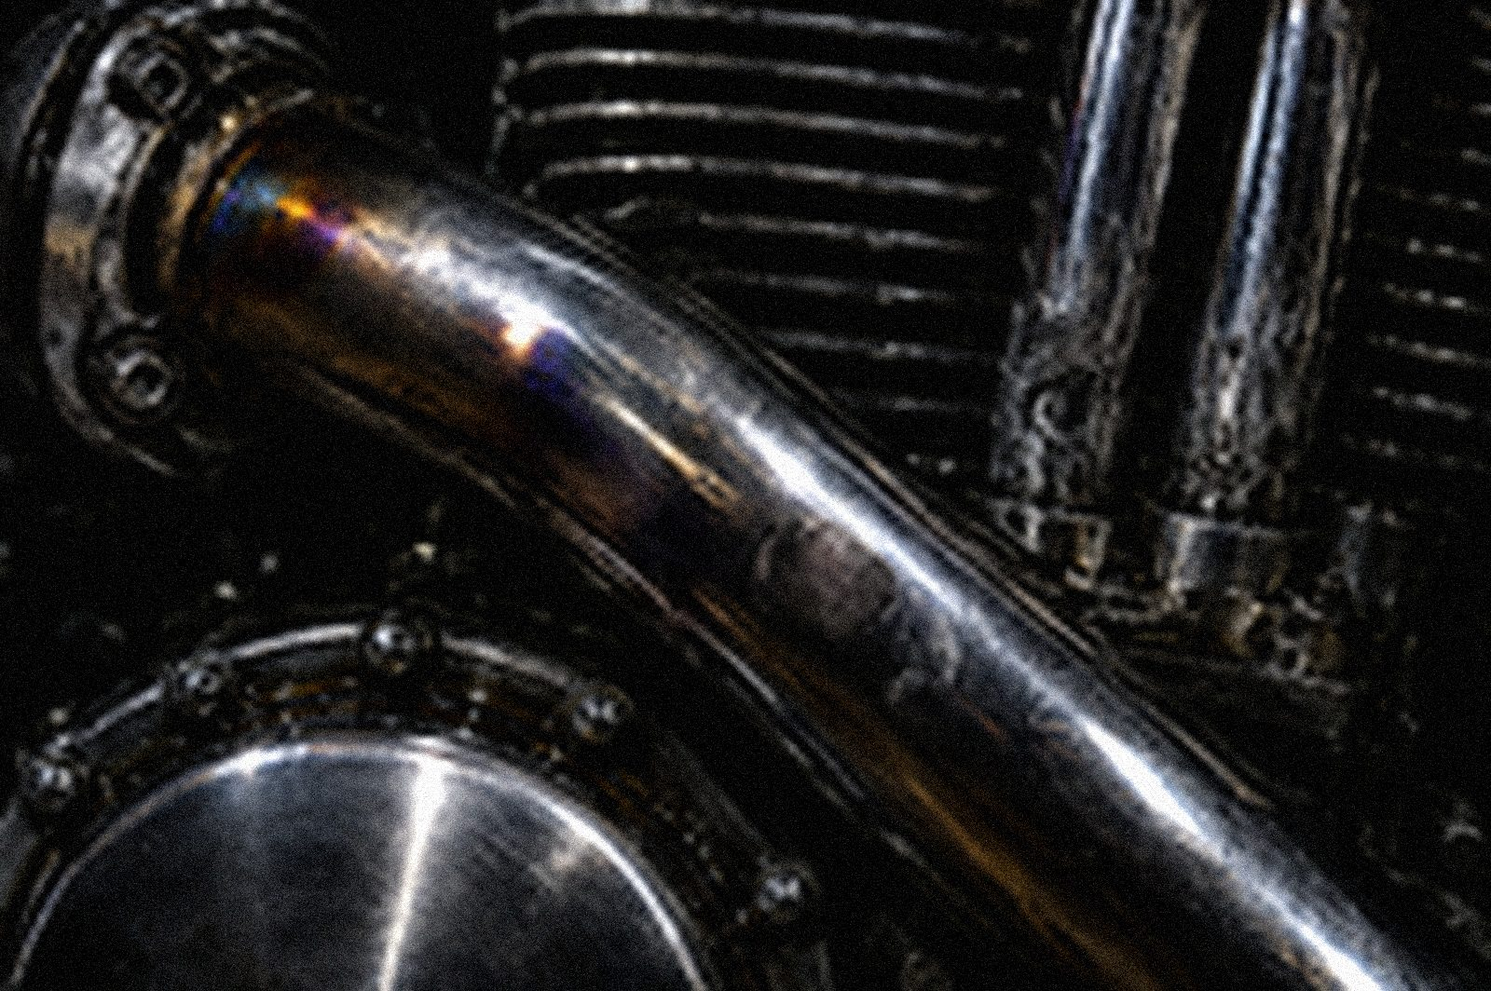
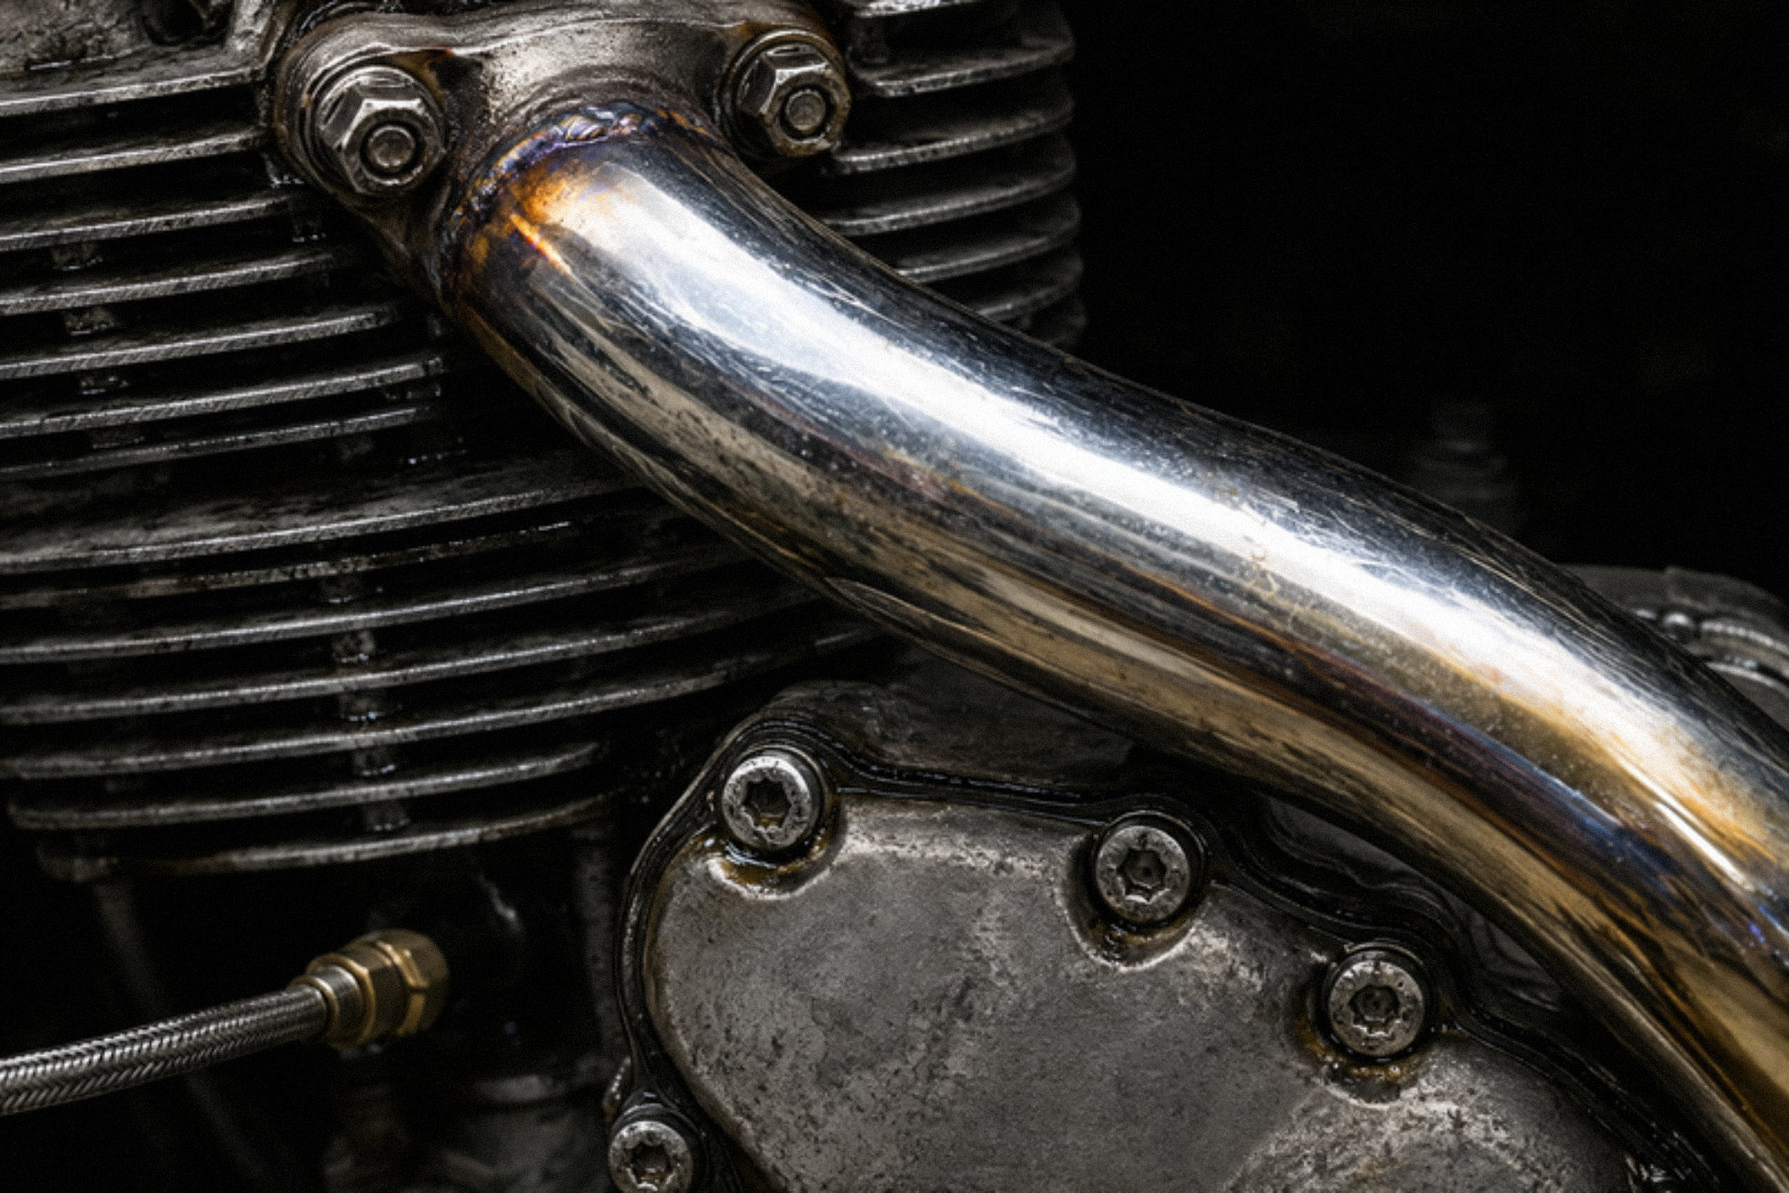
Full-size photography, membership chapter, copy aligned to the club model
Replace upscaled thumbnails with 1600–2000px plates exported from Canva.
Swap the Films and Numbers chapters for a Rides strip and a Membership
chapter (price, inclusions, three steps, counters). Copy now mirrors the
join flow the CTA links to: weekly sector rides, app, tours and rallies,
hoody in year one, two-week cooling off, BHF support.

Claude-Session: https://claude.ai/code/session_01L2ionsQ2zNKFNVYYEEiH6J

diff --git a/src/lib/content.ts b/src/lib/content.ts
@@ -1,42 +1,64 @@
+/**
+ * All editable copy. Membership details mirror the join page the CTA links to
+ * (annual membership, hoody in year one, weekly sector rides, app, tours and
+ * rallies, two-week cooling off). Change here, nowhere else.
+ */
 export const content = {
   hero: {
-    kicker: "A riders' collective",
-    sub: "Rideouts, films, and the people who live for the road.",
+    kicker: "A motorcycle community, not an MC",
+    sub: "Weekly ride-outs with your local sector. Every bike welcome.",
     cta: "Join the ride",
   },
   manifesto:
-    "We don't ride to be *seen.* We ride because the road is the only place that doesn't *lie.* One pride. Every road.",
+    "Ride. Reset. *Represent.* No reckless riding, no *egos.* Guys and girls who ride with respect, every week, on every kind of bike. One pride. Every road.",
   chapters: [
-    { n: "01", title: "Rideouts", line: "Weekly. Every city we're in. You turn up, you roll out, you're family.", img: "/media/wheelie-dusk.jpg", ratio: "16/9" },
-    { n: "02", title: "Films", line: "Ride videos cut like cinema. Shot by riders, for riders, no stock, no fakes.", img: "/media/helmet.jpg", ratio: "4/5" },
-    { n: "03", title: "The App", line: "Routes, meets, live locations and the pack chat. Members only.", img: "/media/forecourt.jpg", ratio: "4/5" },
-    { n: "04", title: "Merch", line: "Chrome lion on your back. Limited runs, never restocked.", img: "/media/chrome-engine.jpg", ratio: "3/2" },
+    { n: "01", title: "Weekly rides", line: "Your local sector rolls out every week. Book in the app, see who's going, turn up.", img: "/media/pack-night.jpg" },
+    { n: "02", title: "Your sector", line: "Beds, Bucks, Essex, Herts, Kent, Reading, Suffolk, Surrey, and counting. Ride local with your crew.", img: "/media/forecourt.jpg" },
+    { n: "03", title: "The app", line: "Routes, meets, who's riding and the sector chat. Your club, in your pocket.", img: "/media/helmet.jpg" },
+    { n: "04", title: "Tours & rallies", line: "Wales, the Peaks, the coast. Long weekends with the whole pride.", img: "/media/rally.jpg" },
   ],
-  films: [
-    { title: "Night Pack", meta: "Rideout film — 06:12", img: "/media/pack-night.jpg" },
-    { title: "Dual Carriageway", meta: "Short — 02:48", img: "/media/wheelie-dusk.jpg" },
-    { title: "Forecourt", meta: "Documentary — 11:20", img: "/media/forecourt.jpg" },
-    { title: "Visor", meta: "Portrait series — 01:30", img: "/media/helmet.jpg" },
-    { title: "Chrome", meta: "Detail study — 03:05", img: "/media/chrome-engine.jpg" },
+  rides: [
+    { title: "Dusk run", meta: "Herts sector — weekly", img: "/media/pack-night.jpg" },
+    { title: "Forecourt", meta: "Essex sector — meet", img: "/media/forecourt.jpg" },
+    { title: "Snowdonia", meta: "Rally — three days", img: "/media/rally.jpg" },
+    { title: "Visor", meta: "Kent sector — weekly", img: "/media/helmet.jpg" },
+    { title: "Chrome", meta: "Workshop meet", img: "/media/chrome-engine.jpg" },
   ],
+  membership: {
+    price: "£199.99",
+    per: "a year",
+    founding: "£99.99",
+    includes: [
+      "Members hoody in your first year",
+      "Weekly rides with your sector",
+      "The app, the WhatsApp community and your sector group",
+      "Tours, rallies and partner discounts",
+      "Two-week cooling off, full refund if it isn't for you",
+    ],
+    steps: [
+      { n: "01", title: "Join online", line: "About ten minutes." },
+      { n: "02", title: "Ride this week", line: "With your local sector." },
+      { n: "03", title: "Day 14, you're official", line: "Your hoody goes in the post." },
+    ],
+  },
   numbers: [
-    { value: 12400, suffix: "+", label: "Riders in the pride" },
-    { value: 48, suffix: "", label: "Cities" },
-    { value: 310, suffix: "+", label: "Rideouts filmed" },
-    { value: 9, suffix: "M", label: "Film views", decimals: 0 },
+    { value: 8, suffix: "", label: "Sectors across the South East" },
+    { value: 52, suffix: "", label: "Ride-outs a year, per sector" },
+    { value: 14, suffix: "", label: "Day cooling off" },
+    { value: 10, suffix: "", label: "Founding places per new sector" },
   ],
   code: [
-    { n: "01", title: "Protect the pack.", body: "Nobody rides alone. Nobody gets left on the hard shoulder.", theme: "ink" },
-    { n: "02", title: "Respect the road.", body: "It was here before us. It'll be here after. Ride like it.", theme: "oxblood" },
-    { n: "03", title: "Represent the pride.", body: "The lion's on your back. Act like it means something.", theme: "bone" },
+    { n: "01", title: "Ride with respect.", body: "No reckless riding. No egos. We look after each other and everyone we pass.", theme: "ink" },
+    { n: "02", title: "Every bike welcome.", body: "Sports, naked, adventure, cruiser, 125. If it rides, it rides with us.", theme: "oxblood" },
+    { n: "03", title: "Represent the pride.", body: "The lion's on your back. Part of every hoody, drop and event goes to the British Heart Foundation.", theme: "bone" },
   ],
   voices: [
-    { q: "First rideout I came alone. Second one I had forty brothers.", who: "Kay, Birmingham" },
-    { q: "The films are the only ones that look like how it actually feels.", who: "Marcus, Manchester" },
-    { q: "My dad rode. Now I ride. The pride is the only crew that got that.", who: "Dre, South London" },
-    { q: "Turn up, be sound, look after people. That's it. That's the culture.", who: "Yas, Leeds" },
-    { q: "Nobody asks what you ride. They ask if you're coming.", who: "Tomi, Bristol" },
+    { q: "Joined on a Tuesday, rode with Herts on the Sunday. Easiest decision I've made.", who: "Member, Herts" },
+    { q: "I'm on a 125 and nobody cared. They waited at every junction.", who: "Member, Essex" },
+    { q: "Not an MC. No patches to earn, no politics. Just people who ride.", who: "Member, Kent" },
+    { q: "The Wales rally was the best weekend I've had on a bike.", who: "Member, Surrey" },
+    { q: "Turn up, be sound, look after people. That's the whole thing.", who: "Member, Reading" },
   ],
-  pull: { q: "Nobody asks what you ride. They ask if you're coming.", who: "Tomi — Bristol chapter" },
-  closing: { a: "The road is", b: "waiting.", cta: "Join the ride" },
+  pull: { q: "I'm on a 125 and nobody cared. They waited at every junction.", who: "Essex sector" },
+  closing: { a: "Join today.", b: "Ride this week.", cta: "Join the ride" },
 };

diff --git a/src/components/Rides.tsx b/src/components/Rides.tsx
@@ -4,7 +4,8 @@ import { gsap, useGSAP, prefersReducedMotion } from "@/lib/gsap";
 import { content } from "@/lib/content";
 import { Lines } from "./Reveal";
 
-export function Films() {
+/** Horizontal strip of ride photography. Pinned and scrubbed on desktop, native snap scroll on touch. */
+export function Rides() {
   const root = useRef<HTMLElement>(null);
   const track = useRef<HTMLDivElement>(null);
 
@@ -18,48 +19,44 @@ export function Films() {
         x: () => -dist(), ease: "none",
         scrollTrigger: { trigger: root.current, start: "top top", end: () => `+=${dist()}`, pin: true, scrub: 0.9, anticipatePin: 1, invalidateOnRefresh: true },
       });
-      // inner parallax per poster
-      t.querySelectorAll<HTMLElement>(".poster img").forEach((img) => {
+      t.querySelectorAll<HTMLElement>(".frame img").forEach((img) => {
         gsap.fromTo(img, { xPercent: -8 }, { xPercent: 8, ease: "none", scrollTrigger: { trigger: img.parentElement, containerAnimation: tween, start: "left right", end: "right left", scrub: true } });
       });
-      gsap.to(".films-progress", { scaleX: 1, ease: "none", scrollTrigger: { trigger: root.current, start: "top top", end: () => `+=${dist()}`, scrub: true } });
+      gsap.to(".rides-progress", { scaleX: 1, ease: "none", scrollTrigger: { trigger: root.current, start: "top top", end: () => `+=${dist()}`, scrub: true } });
     });
     return () => mm.revert();
   }, { scope: root });
 
   return (
-    <section ref={root} id="films" className="relative overflow-hidden bg-asphalt">
+    <section ref={root} id="rides" className="relative overflow-hidden bg-asphalt">
       <div className="flex items-end justify-between px-[var(--gutter)] pt-24 lg:absolute lg:inset-x-0 lg:top-0 lg:z-10 lg:pt-10">
         <div>
-          <p className="label mb-3">Chapter 02 — The films</p>
-          <Lines text="Shot by riders." as="h2" className="display text-[clamp(2.4rem,6vw,5rem)] text-bone" />
+          <p className="label mb-3">Chapter 02 — From the rides</p>
+          <Lines text="Every week. Every bike." as="h2" className="display text-[clamp(2.4rem,6vw,5rem)] text-bone" />
         </div>
         <p className="label hidden lg:block">Scroll to move</p>
       </div>
       <div
         ref={track}
-        data-cursor="Watch"
+        data-cursor="View"
         className="flex gap-[4vw] overflow-x-auto px-[var(--gutter)] py-14 [scrollbar-width:none] [&::-webkit-scrollbar]:hidden lg:h-[100svh] lg:items-center lg:overflow-visible lg:py-0 lg:pl-[var(--gutter)] lg:pr-[20vw] snap-x snap-mandatory lg:snap-none"
       >
         <div className="hidden w-[20vw] shrink-0 lg:block" />
-        {content.films.map((f, i) => (
-          <a key={f.title} href="#" className="group poster relative shrink-0 snap-start" aria-label={`Watch ${f.title}`}>
-            <div className={`relative overflow-hidden ${i % 2 ? "aspect-[4/5] w-[72vw] md:w-[34vw] lg:w-[26vw]" : "aspect-[16/10] w-[82vw] md:w-[52vw] lg:w-[42vw]"} ${i % 2 ? "lg:-translate-y-[8vh]" : "lg:translate-y-[6vh]"}`}>
+        {content.rides.map((f, i) => (
+          <figure key={f.title} className="group relative shrink-0 snap-start">
+            <div className={`frame relative overflow-hidden ${i % 2 ? "aspect-[4/5] w-[72vw] md:w-[34vw] lg:w-[26vw]" : "aspect-[16/10] w-[82vw] md:w-[52vw] lg:w-[42vw]"} ${i % 2 ? "lg:-translate-y-[8vh]" : "lg:translate-y-[6vh]"}`}>
               {/* eslint-disable-next-line @next/next/no-img-element */}
-              <img src={f.img} alt="" loading="lazy" className="h-full w-[120%] max-w-none object-cover transition-transform duration-[1200ms] [transition-timing-function:var(--ease-out-expo)] group-hover:scale-[1.04]" />
-              <span className="absolute left-4 top-4 flex h-12 w-12 items-center justify-center rounded-full border border-bone/50 bg-ink/40 backdrop-blur transition-transform duration-700 group-hover:scale-110">
-                <svg width="12" height="12" viewBox="0 0 12 12" fill="currentColor" className="ml-0.5 text-bone"><path d="M2 1l9 5-9 5z" /></svg>
-              </span>
+              <img src={f.img} alt={f.title} loading="lazy" className="h-full w-[120%] max-w-none object-cover transition-transform duration-[1200ms] [transition-timing-function:var(--ease-out-expo)] group-hover:scale-[1.04]" />
             </div>
-            <div className="mt-4 flex items-baseline justify-between gap-6">
-              <h3 className="display-wide text-[1.1rem] text-bone">{f.title}</h3>
+            <figcaption className="mt-4 flex items-baseline justify-between gap-6">
+              <span className="display-wide text-[1.1rem] text-bone">{f.title}</span>
               <span className="label">{f.meta}</span>
-            </div>
+            </figcaption>
             <span className="serif-it absolute -left-3 -top-8 text-[3rem] text-steel lg:-left-6 lg:-top-12 lg:text-[5rem]">0{i + 1}</span>
-          </a>
+          </figure>
         ))}
       </div>
-      <div className="films-progress absolute bottom-6 left-[var(--gutter)] right-[var(--gutter)] hidden h-px origin-left scale-x-0 bg-bone lg:block" />
+      <div className="rides-progress absolute bottom-6 left-[var(--gutter)] right-[var(--gutter)] hidden h-px origin-left scale-x-0 bg-bone lg:block" />
     </section>
   );
 }

diff --git a/src/components/Membership.tsx b/src/components/Membership.tsx
@@ -1,0 +1,69 @@
+"use client";
+import { useRef } from "react";
+import { gsap, useGSAP, JOIN_URL, prefersReducedMotion } from "@/lib/gsap";
+import { content } from "@/lib/content";
+import { Lines, Fade } from "./Reveal";
+import { Button } from "./Magnetic";
+
+export function Membership() {
+  const root = useRef<HTMLElement>(null);
+  const m = content.membership;
+
+  useGSAP(() => {
+    const els = root.current!.querySelectorAll<HTMLElement>(".count");
+    els.forEach((el) => {
+      const target = Number(el.dataset.value);
+      if (prefersReducedMotion()) { el.textContent = String(target); return; }
+      const o = { v: 0 };
+      gsap.to(o, { v: target, duration: 1.8, ease: "power3.out", onUpdate: () => (el.textContent = String(Math.round(o.v))), scrollTrigger: { trigger: el, start: "top 85%", once: true } });
+    });
+    if (prefersReducedMotion()) return;
+    gsap.from(root.current!.querySelectorAll(".inc"), { opacity: 0, x: -16, stagger: 0.08, duration: 0.9, scrollTrigger: { trigger: ".inc-list", start: "top 80%", once: true } });
+    gsap.from(root.current!.querySelectorAll(".step"), { opacity: 0, y: 24, stagger: 0.12, duration: 1, scrollTrigger: { trigger: ".steps", start: "top 80%", once: true } });
+  }, { scope: root });
+
+  return (
+    <section ref={root} id="membership" className="relative bg-ink px-[var(--gutter)] py-28 md:py-40">
+      <div className="grid gap-16 md:grid-cols-12">
+        <div className="md:col-span-7">
+          <p className="label mb-4">Chapter 03 — Membership</p>
+          <Lines text={"One membership.\nEvery ride."} as="h2" className="display text-[clamp(3rem,8.5vw,9rem)] text-bone" />
+          <div className="mt-10 flex flex-wrap items-baseline gap-x-5 gap-y-2">
+            <span className="display text-[clamp(4rem,12vw,13rem)] tabular-nums text-bone">{m.price}</span>
+            <span className="serif-it text-[clamp(1.6rem,3vw,3rem)] text-signal">{m.per}</span>
+          </div>
+          <p className="body mt-4">Joining a new sector? The first ten members get the founding offer: <span className="text-bone">{m.founding}</span>.</p>
+          <div className="mt-10"><Button href={JOIN_URL}>Join the ride</Button></div>
+        </div>
+
+        <ul className="inc-list md:col-span-4 md:col-start-9 md:self-end">
+          {m.includes.map((line, i) => (
+            <li key={line} className="inc flex gap-5 border-t border-steel py-5 last:border-b">
+              <span className="serif-it text-[1.1rem] text-signal">0{i + 1}</span>
+              <span className="text-[1.05rem] leading-snug text-bone">{line}</span>
+            </li>
+          ))}
+        </ul>
+      </div>
+
+      <div className="steps mt-28 grid gap-10 border-t border-steel pt-12 md:grid-cols-3 md:gap-[var(--gutter)]">
+        {m.steps.map((s) => (
+          <div key={s.n} className="step">
+            <span className="serif-it text-[2rem] text-signal">{s.n}</span>
+            <h3 className="display mt-2 text-[clamp(2rem,3.6vw,3.6rem)] text-bone">{s.title}</h3>
+            <p className="body mt-3">{s.line}</p>
+          </div>
+        ))}
+      </div>
+
+      <Fade className="mt-24 grid grid-cols-2 gap-8 md:grid-cols-4">
+        {content.numbers.map((n) => (
+          <div key={n.label}>
+            <span className="display block text-[clamp(3rem,7vw,7rem)] tabular-nums text-bone"><span className="count" data-value={n.value}>0</span>{n.suffix}</span>
+            <span className="label mt-2 block">{n.label}</span>
+          </div>
+        ))}
+      </Fade>
+    </section>
+  );
+}

diff --git a/src/components/MaskReveal.tsx b/src/components/MaskReveal.tsx
@@ -31,7 +31,7 @@ export function MaskReveal() {
         className="masked absolute inset-0 [--m:34] [mask-image:url('/brand/silhouette.svg')] [mask-position:center_46%] [mask-repeat:no-repeat] [mask-size:calc(var(--m)*1%)_auto] [-webkit-mask-image:url('/brand/silhouette.svg')] [-webkit-mask-position:center_46%] [-webkit-mask-repeat:no-repeat] [-webkit-mask-size:calc(var(--m)*1%)_auto]"
       >
         {/* eslint-disable-next-line @next/next/no-img-element */}
-        <img src="/media/wheelie-dusk.jpg" alt="Rider lifting the front wheel on an empty dual carriageway at dusk" className="h-full w-full object-cover will-change-transform" loading="lazy" />
+        <img src="/media/rally.jpg" alt="Riders on an empty road at dusk" className="h-full w-full object-cover will-change-transform" loading="lazy" />
       </div>
       <div className="cap-a pointer-events-none absolute inset-x-0 bottom-[12%] hidden justify-between px-[var(--gutter)] md:flex">
         <span className="label">Keep scrolling</span>

diff --git a/src/components/Footer.tsx b/src/components/Footer.tsx
@@ -6,11 +6,11 @@ export function Footer() {
       <div className="grid gap-10 border-t border-steel pt-10 md:grid-cols-4">
         <div className="md:col-span-2">
           <p className="display-wide text-[1rem] text-bone">Bike<span className="text-signal">·</span>Culture</p>
-          <p className="body mt-3 max-w-[30ch]">A riders&rsquo; collective. One pride, every road.</p>
+          <p className="body mt-3 max-w-[30ch]">A motorcycle community, not an MC. One pride, every road.</p>
         </div>
         <ul className="flex flex-col gap-3 label">
-          <li><a className="ul" href="#chapters">Rideouts</a></li>
-          <li><a className="ul" href="#films">Films</a></li>
+          <li><a className="ul" href="#chapters">Rides</a></li>
+          <li><a className="ul" href="#membership">Membership</a></li>
           <li><a className="ul" href="#code">The Code</a></li>
           <li><a className="ul" href={JOIN_URL} target="_blank" rel="noopener noreferrer">Join</a></li>
         </ul>

diff --git a/src/components/Chapters.tsx b/src/components/Chapters.tsx
@@ -60,7 +60,7 @@ export function Chapters() {
           </div>
         </div>
         <div className="col-span-5 col-start-8 flex flex-col justify-center gap-12">
-          <p className="label">What we do</p>
+          <p className="label">How it works</p>
           {items.map((c) => (
             <div key={c.title} className="ch-beat">
               <div className="flex items-baseline gap-5">
@@ -75,7 +75,7 @@ export function Chapters() {
 
       {/* mobile / tablet */}
       <div className="flex flex-col gap-20 px-[var(--gutter)] py-24 lg:hidden">
-        <p className="label">What we do</p>
+        <p className="label">How it works</p>
         {items.map((c, i) => (
           <article key={c.title} className={`grid gap-6 ${i % 2 ? "md:grid-cols-[1fr_1.2fr]" : "md:grid-cols-[1.2fr_1fr]"}`}>
             <ZoomImage src={c.img} alt="" className={`${i % 2 ? "md:order-2" : ""} aspect-[4/5] w-[86%] ${i % 2 ? "ml-auto" : ""}`} />

diff --git a/src/components/Hero.tsx b/src/components/Hero.tsx
@@ -49,7 +49,7 @@ export function Hero() {
       {/* plate */}
       <div className="hero-plate pointer-events-none absolute inset-0 opacity-0">
         {/* eslint-disable-next-line @next/next/no-img-element */}
-        <img src="/media/pack-night.jpg" alt="" aria-hidden fetchPriority="high" className="h-full w-full object-cover opacity-[0.28] [filter:saturate(0.7)_contrast(1.1)]" />
+        <img src="/media/pack-night.jpg" alt="" aria-hidden fetchPriority="high" className="h-full w-full object-cover opacity-[0.38] [filter:saturate(0.7)_contrast(1.1)]" />
         <div className="absolute inset-0 bg-[radial-gradient(ellipse_at_center,rgba(10,10,12,0)_0%,rgba(10,10,12,0.6)_60%,#0a0a0c_100%)]" />
         <div className="absolute inset-x-0 bottom-0 h-1/2 bg-gradient-to-t from-ink to-transparent" />
       </div>

diff --git a/src/app/page.tsx b/src/app/page.tsx
@@ -4,8 +4,8 @@ import { Hero } from "@/components/Hero";
 import { Manifesto } from "@/components/Manifesto";
 import { MaskReveal } from "@/components/MaskReveal";
 import { Chapters } from "@/components/Chapters";
-import { Films } from "@/components/Films";
-import { Numbers } from "@/components/Numbers";
+import { Rides } from "@/components/Rides";
+import { Membership } from "@/components/Membership";
 import { Code } from "@/components/Code";
 import { Voices } from "@/components/Voices";
 import { Closing } from "@/components/Closing";
@@ -21,8 +21,8 @@ export default function Page() {
         <Manifesto />
         <MaskReveal />
         <Chapters />
-        <Films />
-        <Numbers />
+        <Rides />
+        <Membership />
         <Code />
         <Voices />
         <Closing />

diff --git a/src/components/Code.tsx b/src/components/Code.tsx
@@ -30,7 +30,7 @@ export function Code() {
         <div key={c.n} className={`code-panel sticky top-0 flex h-[100svh] flex-col justify-between px-[var(--gutter)] py-10 ${themes[c.theme]}`} style={{ zIndex: i + 1 }}>
           <div className="flex items-start justify-between">
             <p className="label !text-current opacity-70">The code — {c.n}</p>
-            {i === 0 && <p className="label !text-current opacity-70">Chapter 03</p>}
+            {i === 0 && <p className="label !text-current opacity-70">Chapter 04</p>}
           </div>
           <div className="code-inner">
             <h2 className="display text-[clamp(3.2rem,12vw,13rem)]">

diff --git a/src/components/Closing.tsx b/src/components/Closing.tsx
@@ -32,7 +32,7 @@ export function Closing() {
         </h2>
         <div className="close-cta mt-10 flex flex-wrap items-center gap-6">
           <Button href={JOIN_URL}>{content.closing.cta}</Button>
-          <p className="body max-w-[30ch] !text-bone/70">Free to join. Rideouts, films and the app, straight to your phone.</p>
+          <p className="body max-w-[30ch] !text-bone/70">One membership, £199.99 a year. Weekly rides, the app, and your hoody in the post on day 14.</p>
         </div>
       </div>
     </section>

diff --git a/src/app/layout.tsx b/src/app/layout.tsx
@@ -22,7 +22,7 @@ const instrument = Instrument_Serif({
 export const metadata: Metadata = {
   title: "Bike Culture — One pride. Every road.",
   description:
-    "A riders' collective. Rideouts, films, a members' app, and the people who live for the road.",
+    "A motorcycle community, not an MC. Weekly ride-outs with your local sector, every bike welcome.",
   openGraph: {
     title: "Bike Culture",
     description: "One pride. Every road.",

diff --git a/src/components/Voices.tsx b/src/components/Voices.tsx
@@ -7,7 +7,7 @@ export function Voices() {
   return (
     <section id="voices" className="relative overflow-hidden bg-ink py-28 md:py-40">
       <div className="px-[var(--gutter)]">
-        <p className="label mb-3">Chapter 04 — Voices</p>
+        <p className="label mb-3">Chapter 05 — Voices</p>
         <Lines text="From the pack." as="h2" className="display text-[clamp(2.4rem,6vw,5rem)] text-bone" />
       </div>
 
